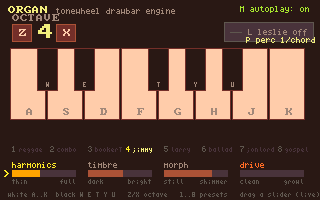
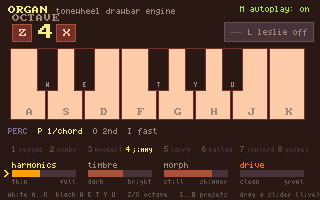
organ percussion: the last two tablets (2nd/3rd harmonic, fast/slow decay) — L2 + L3 closed
Both audit items expected to cost an aux-channel widening, which is the five-place hazard CLAUDE.md
says has bitten twice. Neither did: the MODE_* index space is PER-ENGINE (MODE_BOW_PIZZ is also 0)
and ORGAN had never touched eng_p, so idx 0 and 1 were free. No widening, no hazard. lint-aux-params
still reports width 6 with the highest index 5.

Better still, both defaults are the vintage ones and eng_p defaults to 0.0f, so this is
byte-identical unless a cart asks: 0 = SECOND harmonic (what a Hammond does with the THIRD tablet
up) and 0 = FAST decay (the decay we already shipped).

L2 MODE_ORGAN_PERC_THIRD: 2nd harmonic (the 4' drawbar pitch) or 3rd (2-2/3'). The registration
choice is what makes this testable at all. On gospel it reads as nothing — h2 -3.8 -> -3.5 — because
gospel has the 4' AND 2-2/3' drawbars fully out, so both harmonics already carry drawbar content and
the chip is lost in it. On jimmy (16'+5.33'+8' only, both those drawbars OFF) any energy at h2/h3 IS
the chip:

              h2 (523Hz)   h3 (785Hz)
  SECOND        -27.2        -82.6
  THIRD         -84.8        -23.9

A ~58 dB swap, h1 and h4 unchanged.

L3 MODE_ORGAN_PERC_SLOW: scoped by this session's earlier correction to just the missing half, since
our fixed decay already matched FAST. ORGAN_PERC_TAU_FAST 0.20 / ORGAN_PERC_TAU_SLOW 0.80, both
named as the TIME CONSTANTS they are with the ~4.2x multiplier to audible length written down beside
[…]

diff --git a/editor/src/shell.js b/editor/src/shell.js
@@ -147,7 +147,7 @@ const sections = [
   { title: 'collision',    keys: ['boxes_touch', 'point_in_box', 'circles_touch', 'near', 'touching_map', 'tile_at', 'touching_color'] },
   { title: 'animation',     keys: ['anim', 'blink'] },
   { title: 'strings',        keys: ['str'] },
-  { title: 'sound',       keys: ['sfx', 'note', 'hit', 'note_on', 'note_off', 'note_pitch', 'note_vol', 'note_cutoff', 'note_duty', 'note_pan', 'note_res', 'note_lfo', 'note_lfo_shape', 'note_env', 'note_follow', 'note_harmonics', 'note_timbre', 'note_morph', 'voice_nasal', 'voice_consonant', 'voice_coda', 'instrument_mode', 'note_aux', 'note_drive', 'note_drive_mode', 'instrument_sync', 'note_sync', 'note_echo', 'note_reverb', 'note_filter', 'note_glide', 'note_glide_scale', 'instrument_glide', 'instrument_glide_scale', 'instrument_trigger', 'GLIDE_CONSTANT', 'GLIDE_ANALOG', 'GLIDE_PER_OCT', 'TRIG_MULTI', 'TRIG_SINGLE', 'note_retrig', 'note_off_all', 'instrument', 'instrument_duty', 'instrument_pan', 'instrument_level', 'record_arm', 'record_grab', 'instrument_sample', 'instrument_sample_region', 'instrument_sample_mode', 'sample_peaks', 'sample_read', 'sample_load', 'sample_autotune', 'sample_shift', 'record_peaks', 'instrument_playhead', 'mic_start', 'mic_stop', 'mic_active', 'mic_level', 'mic_pitch', 'mic_record', 'mic_recording', 'mic_record_progress', 'mic_record_rate', 'mic_record_read', 'pan_law', 'listener', 'listener_vel', 'spatial_model', 'spatial_speed', 'note_pos', 'note_motion', 'hit_at', 'instrument_pos', 'instrument_motion', 'instrument_lfo', 'lfo_shape', 'lfo_value', 'scope_read', 'scope_read2', 'instrument_filter', 'instrument_keytrack', 'instrument_env', 'instrument_follow', 'instrument_harmonics', 'instrument_timbre', 'instrument_morph', 'instrument_tune', 'instrument_unison', 'instrument_unison_detune', 'instrument_drive', 'instrument_drive_mode', 'instrument_bandlimit', 'instrument_echo', 'instrument_reverb', 'instrument_reverb_bus', 'reverb_bus_fx', 'reverb_insert', 'reverb_spring', 'reverb_spring_tone', 'echo_insert', 'echo_insert_bbd', 'drive_insert', 'drive_insert_inst', 'drive_voice', 'grains', 'instrument_grains', 'grains_freeze', 'instrument_grains_freeze', 'grains_pitch', 'instrument_grains_pitch', 'instrument_chorus', 'instrument_flanger', 'instrument_tape', 'instrument_wah', 'instrument_wah_lfo', 'instrument_crush', 'instrument_eq', 'instrument_formant', 'instrument_tremolo', 'instrument_autopan', 'instrument_ringmod', 'instrument_phaser', 'instrument_univibe', 'instrument_leslie', 'instrument_choke', 'echo', 'reverb', 'reverb_bus', 'chorus', 'flanger', 'tape', 'tape_inst', 'wah', 'wah_lfo', 'crush', 'crush_inst', 'eq', 'eq_inst', 'formant', 'filter', 'filter_inst', 'tremolo', 'autopan', 'ringmod', 'phaser', 'univibe', 'leslie', 'dropout', 'shallow', 'instrument_shallow', 'amp_noise', 'gate', 'instrument_gate', 'multiband', 'instrument_multiband', 'shimmer', 'instrument_shimmer', 'varispeed', 'fx_mod', 'instrument_fx_mod', 'fx_lfo', 'fx_order', 'sidechain', 'sidechain_key', 'glue', 'vocoder', 'vocoder_send', 'vocoder_mic', 'vocoder_unvoiced', 'autotune_mic', 'harmonize_mic', 'input_monitor', 'wave_set', 'tone', 'chord', 'strum', 'strum_notes', 'schedule', 'schedule_hit', 'bpm', 'beat', 'beat_pos', 'every', 'euclid', 'chance', 'degree', 'INSTR_SQUARE', 'INSTR_SAW', 'INSTR_TRI', 'INSTR_NOISE', 'INSTR_SINE', 'INSTR_USER0', 'INSTR_USER1', 'INSTR_USER2', 'INSTR_USER3', 'INSTR_PLUCK', 'INSTR_MALLET', 'INSTR_FM', 'INSTR_ORGAN', 'INSTR_EPIANO', 'INSTR_PD', 'INSTR_MEMBRANE', 'INSTR_REED', 'INSTR_PIPE', 'INSTR_VOICE', 'INSTR_GUITAR', 'INSTR_PIANO', 'INSTR_BOWED', 'INSTR_BRASS', 'INSTR_SAMPLE', 'SAMPLE_NORMAL', 'SAMPLE_REVERSE', 'SAMPLE_LOOP', 'SAMPLE_PINGPONG', 'LFO_PITCH', 'LFO_DUTY', 'LFO_VOLUME', 'LFO_CUTOFF', 'LFO_CUTOFF_OCT', 'LFO_HARMONICS', 'LFO_TIMBRE', 'LFO_MORPH', 'LFO_PAN', 'LFO_DETUNE', 'PAN_LINEAR', 'PAN_POWER', 'ENV_CUTOFF', 'ENV_CUTOFF_OCT', 'ENV_PITCH', 'ENV_DUTY', 'ENV_HARMONICS', 'ENV_TIMBRE', 'ENV_MORPH', 'ENV_DETUNE', 'FILTER_OFF', 'FILTER_LOW', 'FILTER_HIGH', 'FILTER_BAND', 'FILTER_NOTCH', 'FILTER_LADDER', 'FILTER_STEINER', 'FILTER_STEINER_HP', 'FILTER_STEINER_BP', 'FILTER_STEINER_NF', 'FILTER_DIODE', 'DRIVE_SOFT', 'DRIVE_HARD', 'DRIVE_FOLD', 'DRIVE_ASYM', 'DRIVE_VOICE_NONE', 'DRIVE_VOICE_TS', 'DRIVE_VOICE_RAT', 'DRIVE_VOICE_MUFF', 'LFO_SHAPE_SINE', 'LFO_SHAPE_SQUARE', 'LFO_SHAPE_TRI', 'LFO_SHAPE_SAW', 'LFO_SHAPE_RAMP', 'LFO_SHAPE_OPTICAL', 'LFO_SHAPE_SH', 'LFO_SHAPE_RANDOM', 'TREM_SINE', 'TREM_SQUARE', 'TREM_TRI', 'MODE_STRING_WEIGHT', 'MODE_STRING_CLICK', 'MODE_PIANO_DECAY', 'MODE_PIANO_KNOCK', 'MODE_PIANO_STRETCH', 'MODE_PIANO_STIFF', 'MODE_BOW_PIZZ', 'MODE_BOW_BODY', 'FX_TREM', 'FX_WAH', 'FX_CHORUS', 'FX_PHASER', 'FX_FLANGER', 'FX_TAPE', 'FX_EQ', 'FX_CRUSH', 'FX_REVERB', 'FX_FORMANT', 'FX_FILTER', 'FX_PAN', 'FX_RINGMOD', 'FX_ECHO', 'FX_GRAINS', 'FX_DRIVE', 'FX_SHALLOW', 'FX_GATE', 'FX_MULTIBAND', 'FX_INST', 'FXMOD_FILTER_CUT', 'FXMOD_FILTER_RES', 'FXMOD_DRIVE', 'FXMOD_TREM_DEPTH', 'FXMOD_PAN_DEPTH', 'FXMOD_GRAINS_MIX', 'FXMOD_SHIMMER_MIX', 'LESLIE_STOP', 'LESLIE_SLOW', 'LESLIE_FAST', 'SCALE_MAJOR', 'SCALE_MINOR', 'SCALE_PENTA', 'SCALE_PENTA_MIN', 'SCALE_BLUES', 'SCALE_CHROMATIC', 'CHORD_MAJ', 'CHORD_MIN', 'CHORD_DIM', 'CHORD_AUG', 'CHORD_MAJ7', 'CHORD_MIN7', 'CHORD_DOM7', 'CHORD_SUS4', 'CHORD_POWER'] },
+  { title: 'sound',       keys: ['sfx', 'note', 'hit', 'note_on', 'note_off', 'note_pitch', 'note_vol', 'note_cutoff', 'note_duty', 'note_pan', 'note_res', 'note_lfo', 'note_lfo_shape', 'note_env', 'note_follow', 'note_harmonics', 'note_timbre', 'note_morph', 'voice_nasal', 'voice_consonant', 'voice_coda', 'instrument_mode', 'note_aux', 'note_drive', 'note_drive_mode', 'instrument_sync', 'note_sync', 'note_echo', 'note_reverb', 'note_filter', 'note_glide', 'note_glide_scale', 'instrument_glide', 'instrument_glide_scale', 'instrument_trigger', 'GLIDE_CONSTANT', 'GLIDE_ANALOG', 'GLIDE_PER_OCT', 'TRIG_MULTI', 'TRIG_SINGLE', 'note_retrig', 'note_off_all', 'instrument', 'instrument_duty', 'instrument_pan', 'instrument_level', 'record_arm', 'record_grab', 'instrument_sample', 'instrument_sample_region', 'instrument_sample_mode', 'sample_peaks', 'sample_read', 'sample_load', 'sample_autotune', 'sample_shift', 'record_peaks', 'instrument_playhead', 'mic_start', 'mic_stop', 'mic_active', 'mic_level', 'mic_pitch', 'mic_record', 'mic_recording', 'mic_record_progress', 'mic_record_rate', 'mic_record_read', 'pan_law', 'listener', 'listener_vel', 'spatial_model', 'spatial_speed', 'note_pos', 'note_motion', 'hit_at', 'instrument_pos', 'instrument_motion', 'instrument_lfo', 'lfo_shape', 'lfo_value', 'scope_read', 'scope_read2', 'instrument_filter', 'instrument_keytrack', 'instrument_env', 'instrument_follow', 'instrument_harmonics', 'instrument_timbre', 'instrument_morph', 'instrument_tune', 'instrument_unison', 'instrument_unison_detune', 'instrument_drive', 'instrument_drive_mode', 'instrument_bandlimit', 'instrument_echo', 'instrument_reverb', 'instrument_reverb_bus', 'reverb_bus_fx', 'reverb_insert', 'reverb_spring', 'reverb_spring_tone', 'echo_insert', 'echo_insert_bbd', 'drive_insert', 'drive_insert_inst', 'drive_voice', 'grains', 'instrument_grains', 'grains_freeze', 'instrument_grains_freeze', 'grains_pitch', 'instrument_grains_pitch', 'instrument_chorus', 'instrument_flanger', 'instrument_tape', 'instrument_wah', 'instrument_wah_lfo', 'instrument_crush', 'instrument_eq', 'instrument_formant', 'instrument_tremolo', 'instrument_autopan', 'instrument_ringmod', 'instrument_phaser', 'instrument_univibe', 'instrument_leslie', 'instrument_choke', 'echo', 'reverb', 'reverb_bus', 'chorus', 'flanger', 'tape', 'tape_inst', 'wah', 'wah_lfo', 'crush', 'crush_inst', 'eq', 'eq_inst', 'formant', 'filter', 'filter_inst', 'tremolo', 'autopan', 'ringmod', 'phaser', 'univibe', 'leslie', 'dropout', 'shallow', 'instrument_shallow', 'amp_noise', 'gate', 'instrument_gate', 'multiband', 'instrument_multiband', 'shimmer', 'instrument_shimmer', 'varispeed', 'fx_mod', 'instrument_fx_mod', 'fx_lfo', 'fx_order', 'sidechain', 'sidechain_key', 'glue', 'vocoder', 'vocoder_send', 'vocoder_mic', 'vocoder_unvoiced', 'autotune_mic', 'harmonize_mic', 'input_monitor', 'wave_set', 'tone', 'chord', 'strum', 'strum_notes', 'schedule', 'schedule_hit', 'bpm', 'beat', 'beat_pos', 'every', 'euclid', 'chance', 'degree', 'INSTR_SQUARE', 'INSTR_SAW', 'INSTR_TRI', 'INSTR_NOISE', 'INSTR_SINE', 'INSTR_USER0', 'INSTR_USER1', 'INSTR_USER2', 'INSTR_USER3', 'INSTR_PLUCK', 'INSTR_MALLET', 'INSTR_FM', 'INSTR_ORGAN', 'INSTR_EPIANO', 'INSTR_PD', 'INSTR_MEMBRANE', 'INSTR_REED', 'INSTR_PIPE', 'INSTR_VOICE', 'INSTR_GUITAR', 'INSTR_PIANO', 'INSTR_BOWED', 'INSTR_BRASS', 'INSTR_SAMPLE', 'SAMPLE_NORMAL', 'SAMPLE_REVERSE', 'SAMPLE_LOOP', 'SAMPLE_PINGPONG', 'LFO_PITCH', 'LFO_DUTY', 'LFO_VOLUME', 'LFO_CUTOFF', 'LFO_CUTOFF_OCT', 'LFO_HARMONICS', 'LFO_TIMBRE', 'LFO_MORPH', 'LFO_PAN', 'LFO_DETUNE', 'PAN_LINEAR', 'PAN_POWER', 'ENV_CUTOFF', 'ENV_CUTOFF_OCT', 'ENV_PITCH', 'ENV_DUTY', 'ENV_HARMONICS', 'ENV_TIMBRE', 'ENV_MORPH', 'ENV_DETUNE', 'FILTER_OFF', 'FILTER_LOW', 'FILTER_HIGH', 'FILTER_BAND', 'FILTER_NOTCH', 'FILTER_LADDER', 'FILTER_STEINER', 'FILTER_STEINER_HP', 'FILTER_STEINER_BP', 'FILTER_STEINER_NF', 'FILTER_DIODE', 'DRIVE_SOFT', 'DRIVE_HARD', 'DRIVE_FOLD', 'DRIVE_ASYM', 'DRIVE_VOICE_NONE', 'DRIVE_VOICE_TS', 'DRIVE_VOICE_RAT', 'DRIVE_VOICE_MUFF', 'LFO_SHAPE_SINE', 'LFO_SHAPE_SQUARE', 'LFO_SHAPE_TRI', 'LFO_SHAPE_SAW', 'LFO_SHAPE_RAMP', 'LFO_SHAPE_OPTICAL', 'LFO_SHAPE_SH', 'LFO_SHAPE_RANDOM', 'TREM_SINE', 'TREM_SQUARE', 'TREM_TRI', 'MODE_STRING_WEIGHT', 'MODE_STRING_CLICK', 'MODE_PIANO_DECAY', 'MODE_PIANO_KNOCK', 'MODE_PIANO_STRETCH', 'MODE_PIANO_STIFF', 'MODE_ORGAN_PERC_THIRD', 'MODE_ORGAN_PERC_SLOW', 'MODE_BOW_PIZZ', 'MODE_BOW_BODY', 'FX_TREM', 'FX_WAH', 'FX_CHORUS', 'FX_PHASER', 'FX_FLANGER', 'FX_TAPE', 'FX_EQ', 'FX_CRUSH', 'FX_REVERB', 'FX_FORMANT', 'FX_FILTER', 'FX_PAN', 'FX_RINGMOD', 'FX_ECHO', 'FX_GRAINS', 'FX_DRIVE', 'FX_SHALLOW', 'FX_GATE', 'FX_MULTIBAND', 'FX_INST', 'FXMOD_FILTER_CUT', 'FXMOD_FILTER_RES', 'FXMOD_DRIVE', 'FXMOD_TREM_DEPTH', 'FXMOD_PAN_DEPTH', 'FXMOD_GRAINS_MIX', 'FXMOD_SHIMMER_MIX', 'LESLIE_STOP', 'LESLIE_SLOW', 'LESLIE_FAST', 'SCALE_MAJOR', 'SCALE_MINOR', 'SCALE_PENTA', 'SCALE_PENTA_MIN', 'SCALE_BLUES', 'SCALE_CHROMATIC', 'CHORD_MAJ', 'CHORD_MIN', 'CHORD_DIM', 'CHORD_AUG', 'CHORD_MAJ7', 'CHORD_MIN7', 'CHORD_DOM7', 'CHORD_SUS4', 'CHORD_POWER'] },
   { title: 'utility', keys: ['rnd', 'rnd_between', 'rnd_float', 'rnd_float_between', 'rnd_seed', 'now', 'dt', 'epoch', 'frame', 'fps', 'sgn', 'mid', 'timer', 'timer_reset'] },
   { title: 'persistence', keys: ['save', 'load', 'save_int', 'load_int', 'save_bytes', 'load_bytes', 'de_state', 'STATE', 'S', 'GameState'] },
   { title: 'external data', keys: ['de_data_path', 'de_dropped_file', 'de_open_path', 'de_switch_cart'] },

diff --git a/editor/src/studioDocs.js b/editor/src/studioDocs.js
@@ -226,6 +226,8 @@ export const studioDocs = {
   MODE_PIANO_STIFF:   { sig: '#define MODE_PIANO_STIFF 5',   doc: 'instrument_mode idx — INSTR_PIANO STIFF-STRING inharmonicity. A real piano string is stiff, so high partials travel faster and stretch SHARP (f_n = n*f0*sqrt(1+B*n^2)); that stretch is a lot of why a piano reads as a piano and not a harp. Most audible in the BASS and in CHORDS, where the stretched partials of different notes refuse to lock together — nearly inaudible on a single mid note.\n0 = a perfectly harmonic string; 0.5 = the voicing own amount (the grand lands on B = 1.1e-4, a real middle-register grand); 1 = double. The voicing (instrument_harmonics) sets the character — celesta metallic, harpsichord nearly pure. Read at note-on.\ninstrument_mode(slot, MODE_PIANO_STIFF, 0.0f);  // a perfectly harmonic piano' },
   MODE_PIANO_STRETCH: { sig: '#define MODE_PIANO_STRETCH 4', doc: 'instrument_mode idx — INSTR_PIANO STRETCHED TUNING: a real piano does not tune its fundamentals to equal temperament, it tunes them bass-FLAT and treble-SHARP (the Railsback curve) so that the stiff strings\' sharp upper partials agree from note to note. This is the amount of that curve.\n0.5 = the engine own curve (1.0x, about a quarter-tone at the 88-key extremes); 0 = plain equal temperament; 1 = double. Read at note-on.\nSet 0 when the piano must sit in unison with fixed-pitch instruments (a sampled layer, a chiptune part), where a stretched bass reads as sour rather than rich.\ninstrument_mode(slot, MODE_PIANO_STRETCH, 0.0f);  // equal-tempered piano' },
   MODE_BOW_BODY:      { sig: '#define MODE_BOW_BODY 1',      doc: 'instrument_mode idx — INSTR_BOWED BODY resonance amount. A violin body is what makes a bowed string sound like a violin instead of a sawtooth, and this engine shipped with NO body at all (Synth Secrets audit §F4). This blends one in.\nThe body is three short parallel delay lines at 1-4 ms (Reid Part 22: an instrument body IS a small reverberant room), which impose a dense irregular frequency response — most of it above 1 kHz.\n0 = no body (the bare string, the sound before this existed); 1 = full body; 0.8-1.0 is the useful region (1.0 imposes ~18 dB of colouring, against the 20-30 dB a real violin body does). Read at note-on.\nNOTE the delays are one fixed VIOLIN-sized box, applied to cellos and basses too — sizing it is open work.\ninstrument_mode(slot, MODE_BOW_BODY, 1.0f);' },
+  MODE_ORGAN_PERC_THIRD: { sig: '#define MODE_ORGAN_PERC_THIRD 0', doc: 'instrument_mode idx — INSTR_ORGAN: which harmonic the percussion chip sings on. ≥0.5 = THIRD (the 2 2/3\' drawbar pitch — powerful and heavy), < 0.5 = SECOND (the 4\' pitch — bright and clear, and what a real Hammond does with the tablet up).\nOne of the four percussion tablets on the real instrument, alongside on/off, volume and decay. Read at note-on, so it picks the harmonic for each new chip.\ninstrument_mode(slot, MODE_ORGAN_PERC_THIRD, 1.0f);  // the heavier third' },
+  MODE_ORGAN_PERC_SLOW: { sig: '#define MODE_ORGAN_PERC_SLOW 1', doc: 'instrument_mode idx — INSTR_ORGAN: how long the percussion chip rings. ≥0.5 = SLOW (~3.3s, dies away like a chime), < 0.5 = FAST (~0.8s, like a xylophone or glockenspiel — the default).\nThe other of the two percussion switches an organist actually reaches for mid-song. Read at note-on.\ninstrument_mode(slot, MODE_ORGAN_PERC_SLOW, 1.0f);  // let it ring' },
   MODE_BOW_PIZZ:      { sig: '#define MODE_BOW_PIZZ 0',      doc: 'instrument_mode idx — INSTR_BOWED: ≥0.5 = PIZZICATO (pluck the same string), < 0.5 = arco (bow, self-oscillating hold). Read at note-on.\ninstrument_mode(slot, MODE_BOW_PIZZ, 1.0f);  // pizzicato' },
   note_filter:  { sig: 'void note_filter(int handle, int mode)',                      doc: 'Switch a held note’s filter mode live: FILTER_OFF/LOW/HIGH/BAND/NOTCH/LADDER. Flip from lowpass to bandpass mid-note.\nnote_filter(h, FILTER_BAND);' },
   note_glide:   { sig: 'void note_glide(int handle, int ms)',                          doc: 'Portamento: make this held note SLIDE to new pitches over `ms` instead of snapping. 0 = snap (default). Set it once after note_on, then every note_pitch glides.\n`ms` really is the time the slide takes, and it does not change with the distance — a semitone and a three-octave leap both arrive after `ms`. The slide is even in SEMITONES, so a slide up and the same slide back down are mirror images.\nIt eases out near the end (fast at first, gentle as it lands) because that is what analog portamento does — a straight-line pitch ramp sounds mechanical.\nnote_glide(h, 120);  note_pitch(h, 67);' },

diff --git a/tools/carts/organ.c b/tools/carts/organ.c
@@ -13,7 +13,7 @@
     "analog-voice-modeling"
   ],
   "lineage": "INSTR_ORGAN engine showcase and tuning rig — the Leslie is a verbatim navkit processLeslie port (band-split rotary with mechanical rotor inertia), replacing an earlier per-voice LFO recipe.",
-  "description": "INSTR_ORGAN showcase - the fourth modeled ENGINE: every key sums nine drawbar sines at the Hammond footages, so what you hear is a registration (a recipe of harmonics), not one wave. Unlike pluck/mallet it is HELD - hold a key and it sustains, so the macros morph the tone LIVE while you lean on a chord. The same three macros every engine answers: instrument_harmonics = registration (snapped drawbar recipes, thin reggae to full gospel); instrument_timbre = brightness tilt + key click; instrument_morph = animation (0 still combo organ, up = scanner chorus shimmer + percussion chip). Eight presets (1 reggae, 2 combo, 3 bookerT, 4 jimmy, 5 larry, 6 ballad, 7 jonlord, 8 gospel) are baked knob positions. THE LESLIE is not in the engine - it is a per-voice recipe (tremolo + doppler LFOs, rate lerping slow/fast = the spin-up inertia); press L to hear it. THE PERCUSSION IS SINGLE-TRIGGERING, which is a fact about the instrument and not a taste setting: on a real Hammond the percussion is one shared circuit that only recharges once every key is up, so a CHORD gives ONE chip rather than one per note, and playing legato kills the chip entirely - which is exactly why organists play that attack staccato. Press P to A/B it against the wrong (one-per-note) behaviour. The key CLICK is unaffected either way, because that is contact bounce in each key's own switch. And the percussion now TRADES rather than just adds, which is what stops it sounding pasted on: while it is engaged the drawbars drop about 2 dB (a real Hammond's deliberate 'volume compensating' drop) and the 1' drawbar is CANCELLED outright, because the percussion diverts that tone generator - so a percussion registration is darker and a touch quieter, exactly like the real instrument. A S D F G H J K hold keys (chords welcome), Z/X octave, 1..8 presets, drag a slider (morphs held notes live) or LEFT/RIGHT + UP/DOWN, L leslie, M autoplay, P percussion trigger. Multitouch.",
+  "description": "INSTR_ORGAN showcase - the fourth modeled ENGINE: every key sums nine drawbar sines at the Hammond footages, so what you hear is a registration (a recipe of harmonics), not one wave. Unlike pluck/mallet it is HELD - hold a key and it sustains, so the macros morph the tone LIVE while you lean on a chord. The same three macros every engine answers: instrument_harmonics = registration (snapped drawbar recipes, thin reggae to full gospel); instrument_timbre = brightness tilt + key click; instrument_morph = animation (0 still combo organ, up = scanner chorus shimmer + percussion chip). Eight presets (1 reggae, 2 combo, 3 bookerT, 4 jimmy, 5 larry, 6 ballad, 7 jonlord, 8 gospel) are baked knob positions. THE LESLIE is not in the engine - it is a per-voice recipe (tremolo + doppler LFOs, rate lerping slow/fast = the spin-up inertia); press L to hear it. THE PERCUSSION IS SINGLE-TRIGGERING, which is a fact about the instrument and not a taste setting: on a real Hammond the percussion is one shared circuit that only recharges once every key is up, so a CHORD gives ONE chip rather than one per note, and playing legato kills the chip entirely - which is exactly why organists play that attack staccato. Press P to A/B it against the wrong (one-per-note) behaviour. The key CLICK is unaffected either way, because that is contact bounce in each key's own switch. And the percussion now TRADES rather than just adds, which is what stops it sounding pasted on: while it is engaged the drawbars drop about 2 dB (a real Hammond's deliberate 'volume compensating' drop) and the 1' drawbar is CANCELLED outright, because the percussion diverts that tone generator - so a percussion registration is darker and a touch quieter, exactly like the real instrument. A S D F G H J K hold keys (chords welcome), Z/X octave, 1..8 presets, drag a slider (morphs held notes live) or LEFT/RIGHT + UP/DOWN, L leslie, M autoplay. THE PERCUSSION ROW under the keys is all four of the real instrument's percussion tablets: depth rides the MORPH slider, P is the trigger rule, O picks the HARMONIC (2nd = the 4' drawbar pitch, bright and clear; 3rd = the 2 2/3' pitch, powerful and heavy) and I picks the DECAY (fast ~0.8s like a xylophone, slow ~3.3s like a chime). All four default to what a vintage B3 does with its tablets up. Multitouch.",
   "todo": [
     "ui-audit?: the bottom control-hint line runs past the right edge (clipped) — low-confidence, may be intentional; see action-plan \"control-hint overflow\"."
   ]
@@ -48,7 +48,9 @@ de:meta */
 // controls: white keys  A S D F G H J K   ·   black keys  W E . T Y U
 //           hold for sustain (chords welcome — hold several)
 //           Z / X  octave down / up   ·   1..8 presets   ·   L leslie   ·   M autoplay
-//           P  percussion trigger: 1 PER CHORD (the real Hammond) vs one per note (audit §L4)
+//           PERCUSSION, the real instrument's four tablets (audit §L2/§L3/§L4) — depth is the MORPH
+//           slider; P = trigger (1 PER CHORD, the real Hammond, vs one per note); O = harmonic
+//           (2nd = 4' pitch vs 3rd = 2 2/3'); I = decay (fast ~0.8s vs slow ~3.3s chime)
 //           drag a slider (morphs every held note LIVE), or LEFT/RIGHT pick + UP/DOWN turn
 // MULTITOUCH: every finger is its own pointer — hold keys with several fingers while another
 // rides a slider; tap the on-screen octave +/- and Leslie buttons. The desktop mouse arrives
@@ -95,6 +97,11 @@ static int   sel = 0;
 static int   cur_preset = 3;
 static bool  autoplay = true;
 static bool  perc_single = true;   // P: the real Hammond percussion rule (a chord gives ONE chip). §L4
+// The other two of the real instrument's four percussion tablets (§L2, §L3). Both default to the
+// vintage default: SECOND harmonic and FAST decay. Keys O and I because every mnemonic letter
+// (S, D, F, T, H) is already a keybed key — the on-screen labels carry the meaning instead.
+static bool  perc_third = false;   // O: THIRD harmonic (2 2/3' pitch) instead of SECOND (4')
+static bool  perc_slow  = false;   // I: SLOW decay (~3.3s chime) instead of FAST (~0.8s xylophone)
 
 // the Leslie: 0 off, 1 slow (chorale), 2 fast (tremolo). NOW the real bus rotary (instrument_leslie
 // = navkit's processLeslie) — the engine spins the rotors up/down with real inertia. rotor_rate
@@ -215,6 +222,10 @@ void update(void) {
     if (keyp('L')) { lesmode = (lesmode + 1) % 3; apply_leslie(); }
     if (keyp('M')) autoplay = !autoplay;
     if (keyp('P')) { perc_single = !perc_single; instrument_trigger(I_ORG, perc_single ? TRIG_SINGLE : TRIG_MULTI); }
+    // instrument_mode is the NOTE-ON face, so these pick the harmonic/decay for the NEXT chip rather than
+    // bending the one that is ringing — which is what the real tablets do too, the chip having already fired.
+    if (keyp('O')) { perc_third = !perc_third; instrument_mode(I_ORG, MODE_ORGAN_PERC_THIRD, perc_third ? 1.0f : 0.0f); }
+    if (keyp('I')) { perc_slow  = !perc_slow;  instrument_mode(I_ORG, MODE_ORGAN_PERC_SLOW,  perc_slow  ? 1.0f : 0.0f); }
 
     // the on-screen rotor's spin: a VISUAL ease toward the target speed (the AUDIO rotor inertia is
     // the engine's now). off → idle, slow → ~0.8 Hz, fast → ~6.6 Hz (navkit's horn rates).
@@ -316,10 +327,22 @@ void draw(void) {
     font(FONT_SMALL);
     print(str("L leslie %s", lesmode == 2 ? "fast" : lesmode == 1 ? "slow" : "off"),
           LES_X + 24, ry - 3, lesmode ? CLR_LIGHT_YELLOW : CLR_MEDIUM_GREY);
-    // the percussion's trigger rule (§L4). "1/chord" is the real Hammond; "all" is not. print_right so
-    // it cannot overrun the edge whichever label is showing (ui-audit caught the left-aligned version).
-    print_right(str("P perc %s", perc_single ? "1/chord" : "all"),
-                SCREEN_W - 4, ry + 5, perc_single ? CLR_LIGHT_YELLOW : CLR_MEDIUM_GREY);
+    font(FONT_NORMAL);
+
+    // THE PERCUSSION TABLET ROW — all four of the real instrument's percussion controls, grouped, in the
+    // free band between the keybed bottom (KEY_Y+KEY_H = 120) and the preset names (KNOB_Y-23 = 147).
+    // It started life squeezed under the Leslie readout at ry+13 = 45, which collides with the keybed at
+    // KEY_Y = 48 — and ui-audit could NOT catch that, because the keys are rects, not text. Only the bake
+    // showed it. Worth remembering: the text linter sees text-vs-text, never text-vs-graphics.
+    // ON/OFF is not a key here: the depth rides the MORPH slider, which is where this cart puts it.
+    font(FONT_SMALL);
+    int qx = print("PERC", 8, 128, CLR_INDIGO);
+    qx = print(str("  P %s", perc_single ? "1/chord" : "all"), qx, 128,
+               perc_single ? CLR_LIGHT_YELLOW : CLR_DARK_GREY);
+    qx = print(str("  O %s", perc_third ? "3rd" : "2nd"), qx, 128,
+               perc_third ? CLR_ORANGE : CLR_MEDIUM_GREY);
+    print(str("  I %s", perc_slow ? "slow" : "fast"), qx, 128,
+          perc_slow ? CLR_ORANGE : CLR_MEDIUM_GREY);
     font(FONT_NORMAL);
 
     // the manual — keybed.h owns layout/voices/glow; we draw it in the organ's colours

diff --git a/runtime/sound.h b/runtime/sound.h
@@ -3146,6 +3146,16 @@ static inline float sound_pd_sample(Voice *v, float pitch_mul) {
 #define ORGAN_PERC_STEAL 0.30f   // drawbar level lost at FULL percussion depth (0.30 → gain 0.70, −3.1 dB)
 #define ORGAN_BAR_1FOOT  8       // index of the 1' drawbar in RAT[] (ratio 8.0), cancelled while perc is on
 
+// PERCUSSION DECAY, the real instrument's FAST/SLOW tablet (§L3). These are exponential TIME CONSTANTS, not
+// audible lengths — a distinction this audit got wrong once and is worth not repeating: the audible tail runs
+// about 4.2× tau (measured, by differencing a TRIG_SINGLE render against a TRIG_MULTI one, which differ by
+// exactly one ping). So 0.20 → ~0.83 s and 0.80 → ~3.3 s. Reported real decays are ~0.5-1 s for FAST and
+// ~2.5-5 s for SLOW (owner reports by ear; Hammond's own manual only says FAST is "like a xylophone or
+// glockenspiel" and SLOW decays "slowly like a chime"), so both land inside their range. FAST is unchanged
+// from what shipped, which is why the default is byte-identical.
+#define ORGAN_PERC_TAU_FAST 0.20f   // ~0.83 s audible — the tablet UP position, and our long-standing default
+#define ORGAN_PERC_TAU_SLOW 0.80f   // ~3.3 s audible — the chime
+
 // ORGAN percussion depth from the morph macro: it fades in over morph's top ~45%, so a lively B3
 // chips and a still combo organ doesn't. Shared by note-on and note_retrig (which re-arms the chip).
 static inline float sound_organ_perc_amt(float mor) {
@@ -3242,11 +3252,19 @@ static inline float sound_organ_sample(Voice *v, float pitch_mul) {
         v->org_click *= 1.0f - dt / 0.003f;
         if (v->org_click < 0.0001f) v->org_click = 0.0f;
     }
-    if (v->org_perc > 0.0001f) {                        // percussion: a 2nd-harmonic ping, fast decay
-        v->org_perc_ph += f * 2.0f * dt;
+    if (v->org_perc > 0.0001f) {                        // percussion: the ping, on the selected harmonic
+        // HARMONIC SELECTOR (§L2) and DECAY SELECTOR (§L3) — the remaining two of the real instrument's
+        // four percussion tablets. Both read `eng_p`, and note the index REUSE: the aux-param index space
+        // is per-engine (MODE_BOW_PIZZ is also 0), and ORGAN had never touched eng_p, so these cost no
+        // widening of the channel — which is the part that has silently broken twice before.
+        // Both default to 0.0f, and both defaults are the right ones: SECOND is what a Hammond does with
+        // the THIRD tablet up, and FAST is the decay we already shipped. So this is byte-identical unless asked.
+        float rat = (v->eng_p[MODE_ORGAN_PERC_THIRD] >= 0.5f) ? 3.0f : 2.0f;   // 2⅔' vs 4' drawbar pitch
+        float tau = (v->eng_p[MODE_ORGAN_PERC_SLOW]  >= 0.5f) ? ORGAN_PERC_TAU_SLOW : ORGAN_PERC_TAU_FAST;
+        v->org_perc_ph += f * rat * dt;
         if (v->org_perc_ph >= 1.0f) v->org_perc_ph -= 1.0f;
         dry += de_sin_turns(v->org_perc_ph) * v->org_perc * 0.4f;
-        v->org_perc *= 1.0f - dt / 0.2f;                // ~200ms
+        v->org_perc *= 1.0f - dt / tau;
         if (v->org_perc < 0.0001f) v->org_perc = 0.0f;
     }
     // morph = animation: the scanner CHORUS (C-mode, dry+wet) deepens with morph; 0 = a

diff --git a/runtime/studio.h b/runtime/studio.h
@@ -518,6 +518,8 @@ void instrument_mode(int slot, int idx, float value);  // per-engine aux channel
 #define MODE_PIANO_KNOCK   3   // instrument_mode idx — INSTR_PIANO: hammer-knock scale (0.5 = the voicing's own value, 0..1 → 0..2×)
 #define MODE_PIANO_STIFF   5   // instrument_mode idx — INSTR_PIANO: STIFF-STRING inharmonicity (a real piano's partials stretch SHARP — the metallic shimmer in the attack, and the clang in the bass). 0 = a perfectly harmonic string, 0.5 = the voicing's own amount, 1 = double. Most audible in the bass and in chords
 #define MODE_PIANO_STRETCH 4   // instrument_mode idx — INSTR_PIANO: STRETCHED-TUNING amount (a real piano tunes its fundamentals bass-flat/treble-sharp — the Railsback curve). 0.5 = the engine's own curve, 0 = plain equal temperament, 1 = double. Set 0 to play in unison with fixed-pitch instruments
+#define MODE_ORGAN_PERC_THIRD 0 // instrument_mode idx — INSTR_ORGAN: >= 0.5 = percussion on the THIRD harmonic (the 2 2/3' drawbar pitch, powerful and heavy), < 0.5 = SECOND (the 4' pitch, bright and clear — a real Hammond's default)
+#define MODE_ORGAN_PERC_SLOW  1 // instrument_mode idx — INSTR_ORGAN: >= 0.5 = SLOW percussion decay (~3.3s, dies away like a chime), < 0.5 = FAST (~0.8s, like a xylophone — the default)
 #define MODE_BOW_PIZZ      0   // instrument_mode idx — INSTR_BOWED: >= 0.5 = PIZZICATO (pluck the same string), < 0.5 = arco (bow, self-oscillating hold)
 #define MODE_BOW_BODY      1   // instrument_mode idx — INSTR_BOWED: BODY resonance amount. A violin's body is what makes it a violin rather than a sawtooth, and this engine shipped without one. 0 = no body (the bare string, as before), 1 = all body. (Synth Secrets §M2 — three short parallel delay lines: a body is a small reverberant room)
 void voice_nasal(int handle, float amount);    // INSTR_VOICE nasal color on a held note: 0 = open vowel .. 1 = hummed/nasal (the honk, the chant). The voice's 4th axis, alongside the harmonics/timbre/morph macros (vowel/size/effort)

diff --git a/docs/design/synth-secrets-audit.md b/docs/design/synth-secrets-audit.md
@@ -2400,6 +2400,22 @@ Engine: `sound_organ_start` ([`runtime/sound.h:3065`](../../runtime/sound.h)), `
 
 ### L2. Percussion is second-harmonic only; the real instrument has a Second/Third selector
 
+> **✅ SHIPPED 2026-07-30** as **`MODE_ORGAN_PERC_THIRD`** (`instrument_mode` idx 0, ≥0.5 = third). Verified
+> with `harmonic-spec` on a C4 — and the registration choice is what makes the test work at all. On `gospel`
+> it reads as nothing (h2 −3.8→−3.5), because gospel has the 4′ *and* 2⅔′ drawbars fully out, so both
+> harmonics already carry drawbar content and the chip is lost in it. On **`jimmy`** (16′+5⅓′+8′ only, both
+> those drawbars OFF) any energy at h2/h3 **is** the chip:
+>
+> | | h2 (523 Hz) | h3 (785 Hz) |
+> |---|---|---|
+> | SECOND (default) | **−27.2 dB** | −82.6 dB |
+> | THIRD | −84.8 dB | **−23.9 dB** |
+>
+> A ~58 dB swap with h1 and h4 unchanged. **It cost no widening of the aux channel**, which was the expected
+> price: the `MODE_*` index space is per-engine (`MODE_BOW_PIZZ` is also 0) and ORGAN had never touched
+> `eng_p`, so idx 0/1 were free. Default `0.0f` = SECOND, which is what a Hammond does with the THIRD tablet
+> up, so the default is unchanged — verified byte-identical, see §L3.
+
 - **Book:** Part 57 lists the A100's **four** percussion controls — On/Off, **Second/Third**, Normal/Soft,
   Fast/Slow — and describes the mechanism as "diverting part of the **4' or 2 2/3'** signal through a VCA
   controlled by an AD contour generator". Since 4' is ratio 2.0 and 2⅔' is ratio 3.0, Second percussion is
@@ -2426,6 +2442,20 @@ genuinely missing axis. Also one `eng_p` slot.
 > describes them only qualitatively, FAST "like a xylophone or glockenspiel" and SLOW "slowly like a chime").
 > **So our fixed decay already IS the FAST setting, and it is well matched.** What is missing is specifically
 > **SLOW**, not a corrected decay time — which makes this a smaller and better-defined item than it read as.
+>
+> **✅ SHIPPED 2026-07-30** as **`MODE_ORGAN_PERC_SLOW`** (`instrument_mode` idx 1, ≥0.5 = slow), scoped by
+> that correction to just the missing half. `ORGAN_PERC_TAU_FAST` 0.20 / `ORGAN_PERC_TAU_SLOW` 0.80, both
+> named as the **time constants** they are, with the ~4.2× multiplier to audible length written down beside
+> them so the same misreading cannot recur. Measured on `jimmy` by finding where the FAST and SLOW renders
+> re-converge: SLOW's chip persists **~3.0 s** against ~3.36 s predicted, and FAST's **0.83 s** from the
+> earlier §L4 differencing. Both inside their reported real ranges (0.5-1 s, 2.5-5 s).
+>
+> **The default is byte-identical — proven, and the first attempt to prove it FAILED, which was the useful
+> part.** Re-rendering the previous commit's exact script gave a different hash. Before concluding anything
+> I inlined the two literals back and re-rendered: still different. The difference was another agent's
+> `demath` determinism refactor landing in between, **not** the selectors; with that held constant,
+> eng_p-indirection and inlined literals hash identically. Worth keeping as a habit — on a shared engine,
+> *"same script, different bytes"* is not evidence about **your** change until you have held the rest still.
 
 ### L4. Hammond percussion is SINGLE-triggering, and this is the strongest argument yet for §B3
 
@@ -2578,14 +2608,23 @@ because its filters have zero resonance. Ours has no filter in the way at all.
 | # | Step | Kind | Where |
 |---|---|---|---|
 | 1 | L5 add the saw-ish and square-ish registrations | two table rows | `organ` |
-| 2 | L2 + L3 Second/Third selector and Fast/Slow decay on `eng_p` | engine, small | `organ` |
+| ~~2~~ | ~~L2 + L3 Second/Third selector and Fast/Slow decay on `eng_p`~~ ✅ **SHIPPED 2026-07-30** — cost no aux-channel widening (per-engine index space, idx 0/1 were free) | engine, small | `organ` |
 | ~~3~~ | ~~L4 percussion single-trigger~~ ✅ **SHIPPED 2026-07-30** as `instrument_trigger` | engine policy | `organ` vs `pipe` |
 | 4 | L6 tonewheel leakage (§C8) | engine, small | `organ` |
 | ~~5~~ | ~~L7 percussion steals from the sustain **+ cancels the 1′ drawbar**~~ ✅ **SHIPPED 2026-07-30** (−2.14 dB steal, 1′ verified gone at −77 dB) | two multiplies | `organ` |
 
-> **Re-ordered then closed, 2026-07-30.** Step 5 jumped the queue because it was the item the owner actually
-> noticed, and it turned out to be three lines. **The percussion sub-story is now: single-trigger ✅ → trade
-> rather than add ✅ → and what remains is only the two SELECTORS** (L2 Second/Third, L3 Fast/Slow), both
+> **THE PERCUSSION SUB-STORY IS COMPLETE, 2026-07-30.** All four of the real instrument's percussion tablets
+> now exist: depth (the morph macro, already there), trigger (§L4 `instrument_trigger`), harmonic (§L2
+> `MODE_ORGAN_PERC_THIRD`) and decay (§L3 `MODE_ORGAN_PERC_SLOW`), plus the two behaviours that make it
+> *trade* rather than add (§L7). `organ` shows all four in one row under the keys. **What remains on the
+> Hammond at all is only L5 (two registration table rows) and L6 (tonewheel leakage).**
+>
+> The order this happened in was not the planned one, and the reason is worth keeping: step 5 jumped the
+> queue because it was the item the owner actually *noticed*, and it turned out to be three lines. Then §L3's
+> correction shrank step 2 before it was built (our decay already matched FAST, so only SLOW was missing) and
+> §L2 turned out to need no aux-channel widening at all. **Two of the three remaining items got smaller by
+> being looked at properly rather than by being worked on.** Older note, for the record — Step 5 jumped ahead
+> of steps 1, 2 and 4, which then read: **the two SELECTORS** (L2 Second/Third, L3 Fast/Slow), both
 > `eng_p` work, and L3 is now known to need only the SLOW half since our fixed decay already matches FAST.
 > Worth noting how this one arrived: it was sitting in "smaller items" as a one-liner with Reid's own
 > "we're going to overlook this" attached, and it took a listener saying *"that's a lot of perc"* to reveal

diff --git a/docs/STATUS.md b/docs/STATUS.md
@@ -52,7 +52,16 @@ _Last updated: 2026-07-30 — **Synth Secrets phases 1 + 2**: PIANO's dispersion
   suppresses the percussion and *keeps* the key click, because the click is contact bounce in each key's own
   switch. "Key down" is the GATE not the `held` flag, so a `hit()`-driven cart is covered and a released
   voice still ringing out correctly does *not* count. `organ` defaults to `TRIG_SINGLE` with **P** to A/B
-  it. **⚠ LISTEN: this changes the organ's sound** (one chip per chord instead of three).
+  it. **⚠ LISTEN: this changes the organ's sound** (one chip per chord instead of three) — owner approved.
+  **THE HAMMOND PERCUSSION IS NOW COMPLETE, all four of the real tablets** — depth (the morph macro),
+  trigger (§L4), and the last two shipped the same day: **`MODE_ORGAN_PERC_THIRD`** (§L2 — the harmonic, 2nd
+  = the 4′ drawbar pitch or 3rd = 2⅔′; verified as a ~58 dB swap of the chip from h2 to h3 with h1/h4
+  untouched) and **`MODE_ORGAN_PERC_SLOW`** (§L3 — decay, FAST 0.83 s vs SLOW ~3.0 s, both inside the
+  reported real ranges). Neither needed the aux channel widened: the `MODE_*` index space is per-engine and
+  ORGAN had never used `eng_p`, so idx 0/1 were free — no five-place hazard. Plus §L7's two multiplies that
+  make the percussion **trade** rather than add. `organ` shows all four tablets in one row under the keys.
+  **All that's left on the Hammond is L5 (two registration rows) and L6 (tonewheel leakage)** — and two of
+  the three items got *smaller by being looked at properly* rather than by being worked on.
   **That also answered plan 4.2, whose premise was wrong**: the "trigger-policy surface" is not one thing in
   either the header or the engine, it is THREE questions that only sound alike — which held note sounds
   (`mono.h`, cart-land), whether a cart can *perform* a re-attack (`note_retrig`, per-note), and whether a
